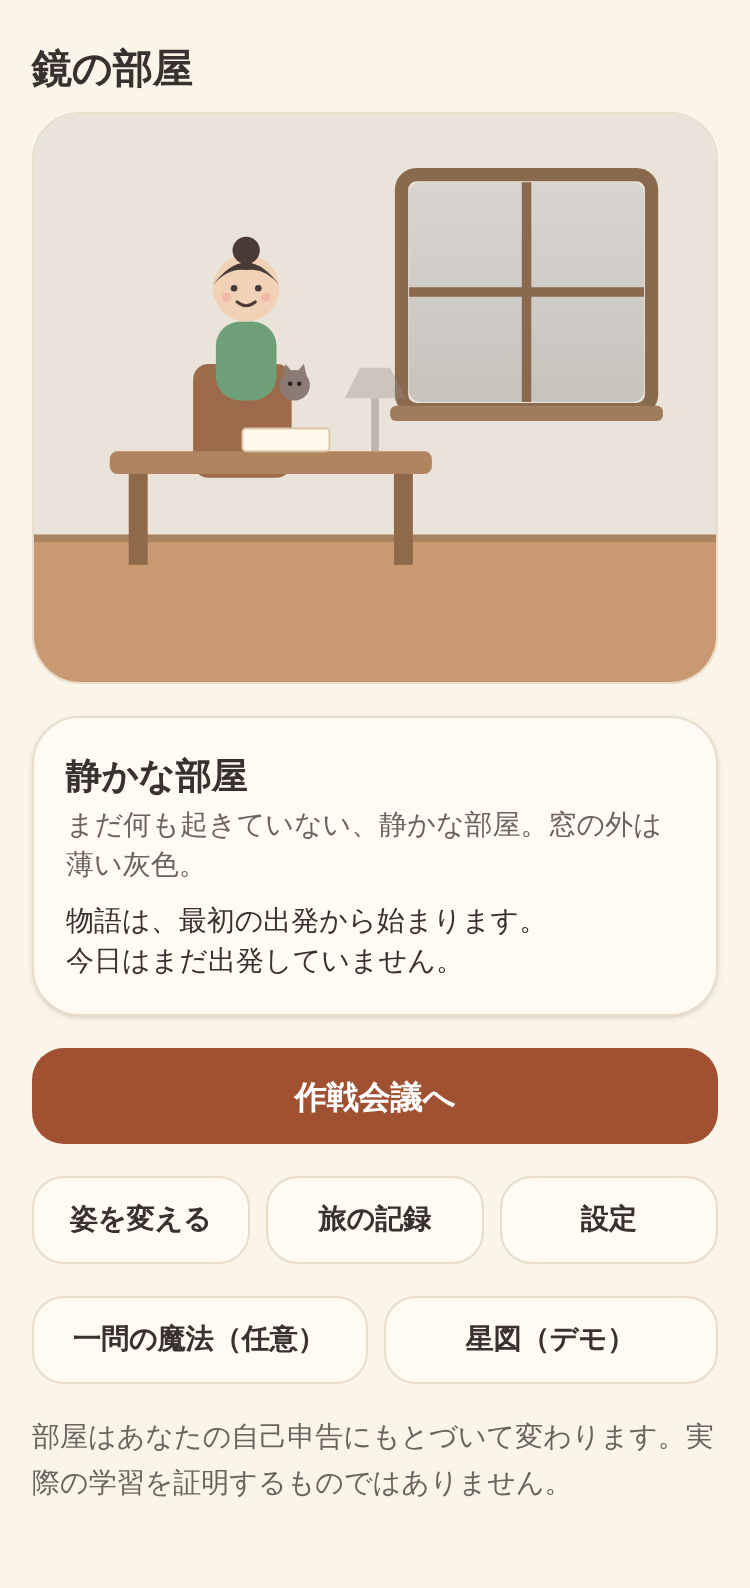
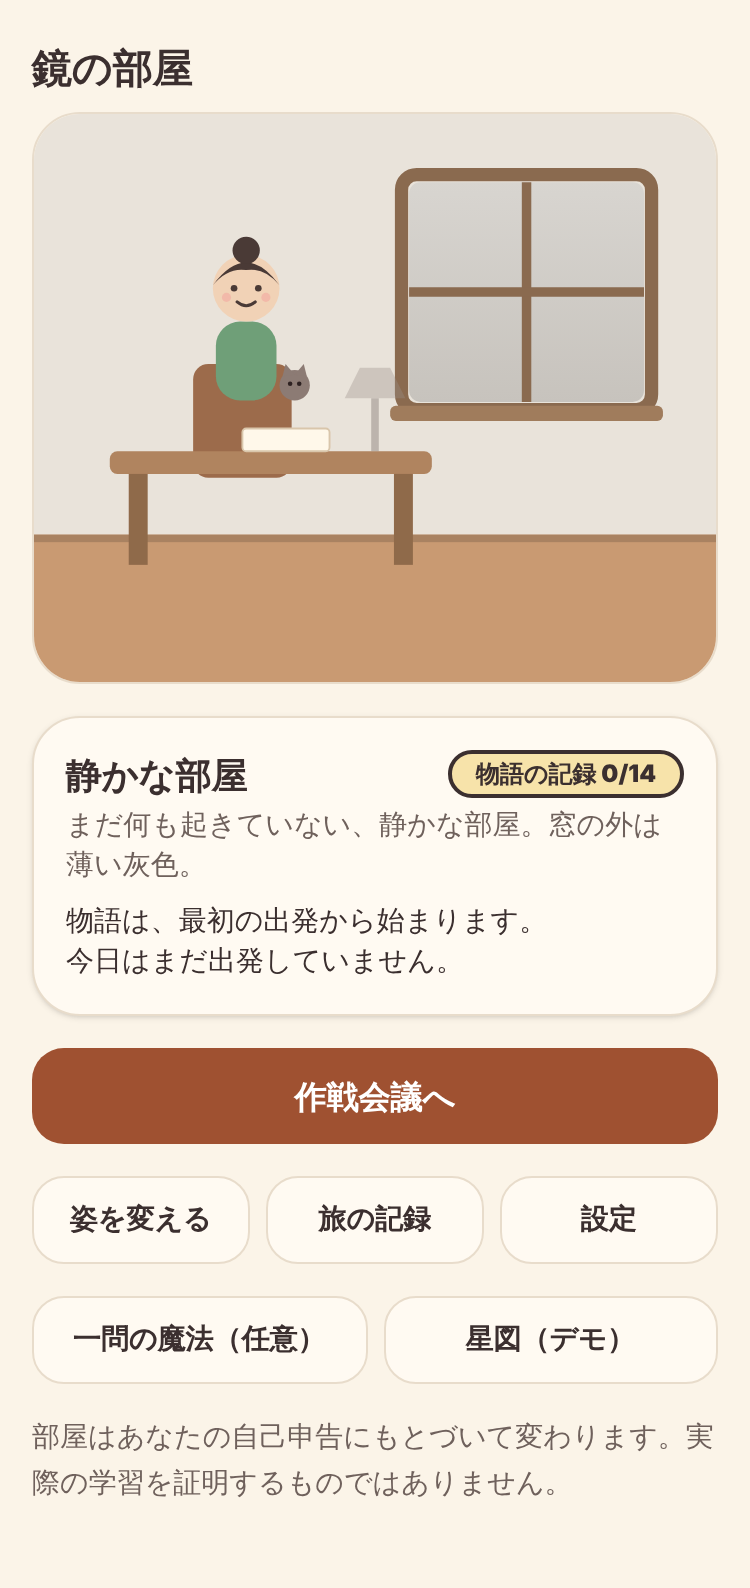
導入画面を AMIX「闇バイト回避シミュレーター」の構成に寄せる、部屋に「物語の記録 n/14」
オーナーの依頼（2026-10-31「これに近づけて」、スクリーンショットで共有）による。
取り入れたのは構成だけで、絵柄・人物・書体はまねていない（設計書 5 章）。
- 導入: 問いかけの吹き出し → 「鏡」を色の箱に入れた大きな題字 → 要点を太字にした本文
  → 端末の時計を映すスマホ画面（部屋と分身で描く）→ 「はじめる」1 タップ＋「遊び方を見る」
  → 安心の一文。下に「遊び方は 3 つだけ」「この作品の約束」「名前をつけてはじめる」
- 部屋: 「物語の記録 n/14」（帰還した日の数。減らない。連続は数えない）
- E2E: 「はじめる」を完全一致に、キーボード操作の検査を新しい並びに合わせた
- 検査: npm run check 57 件・E2E 14 件 成功。375/320/1440px で横はみ出し 0、console エラー 0
- docs/02 の導入の行、docs/08 に 11 章（この会話の追記）

Claude-Session: https://claude.ai/code/session_01TEHZJDHAs9678v4oDnJQFv

Changed region(s): [[0.5827, 0.4628, 0.92, 0.5246]]

diff --git a/src/app/intro/page.tsx b/src/app/intro/page.tsx
@@ -1,9 +1,115 @@
 "use client";
 
-import { useEffect, useState, type FormEvent } from "react";
+import Link from "next/link";
+import { useEffect, useState, useSyncExternalStore, type FormEvent } from "react";
 import { useRouter } from "next/navigation";
 import { useGame } from "@/game/store/GameProvider";
-import { Button, Card, Loading, Note, PageShell } from "@/components/ui";
+import { Loading } from "@/components/ui";
+import { MirrorRoom } from "@/components/MirrorRoom";
+import { AvatarPreview } from "@/components/Avatar";
+import { objectsForGrowth, STAGE_THRESHOLDS } from "@/game/content/roomStages";
+import { STORY_CHAPTERS } from "@/game/content/story";
+import type { AvatarConfig } from "@/game/types";
+
+// 導入（ランディング）。構成の手本: 「一言の問いかけ → 大きな題字 → 手元のスマホ画面 → 1 つの大きな入口 → 安心の一文」。
+// 絵柄・人物・書体は他作品をまねず、受験生の鏡の部屋と分身で描く（設計書 5 章）。
+
+const HERO_AVATAR: AvatarConfig = { hairStyle: 2, outfitColor: 0, companion: 1 };
+const HERO_STAGE = 3;
+const HERO_OBJECTS = [...objectsForGrowth(STAGE_THRESHOLDS[HERO_STAGE]), "subj-math"];
+const WEEKDAYS = ["日", "月", "火", "水", "木", "金", "土"];
+
+function pad(n: number): string {
+  return n < 10 ? `0${n}` : String(n);
+}
+
+// 端末の時計を 1 枚のスマホ画面に出す（20 秒ごとに読み直す）。表示だけで、どこにも送らない。
+function subscribeClock(onChange: () => void): () => void {
+  const id = window.setInterval(onChange, 20_000);
+  return () => window.clearInterval(id);
+}
+function readClock(): string {
+  const d = new Date();
+  return `${pad(d.getHours())}:${pad(d.getMinutes())}|${d.getMonth() + 1}月${d.getDate()}日（${WEEKDAYS[d.getDay()]}）`;
+}
+
+function PhoneScene() {
+  const snapshot = useSyncExternalStore(subscribeClock, readClock, () => "--:--|");
+  const [time, date] = snapshot.split("|");
+  return (
+    <div className="relative mx-auto h-[540px] w-full max-w-[340px]" aria-label="画面のイメージ" role="img">
+      {/* 動きの線 */}
+      <svg aria-hidden="true" viewBox="0 0 60 60" className="absolute left-2 top-16 h-14 w-14">
+        <path d="M8 40 L40 18" stroke="#5b6c8f" strokeWidth="5" strokeLinecap="round" />
+        <path d="M14 54 L48 34" stroke="#5b6c8f" strokeWidth="5" strokeLinecap="round" />
+        <path d="M28 4 L22 22 L32 22 L24 40" stroke="#f2d479" strokeWidth="5" fill="none" strokeLinejoin="round" />
+      </svg>
+
+      {/* スマホ */}
+      <div className="absolute left-1/2 top-2 h-[480px] w-[236px] -translate-x-1/2 rounded-[2.6rem] border-[10px] border-ink bg-gradient-to-b from-[#7fb0c8] to-[#4d5f86] shadow-[8px_8px_0_rgba(59,47,47,0.18)]">
+        <div className="mx-auto mt-2 h-5 w-20 rounded-full bg-ink" />
+        <p className="mt-3 text-center text-5xl font-light tabular-nums tracking-tight text-white" data-testid="hero-clock">
+          {time}
+        </p>
+        <p className="text-center text-xs font-semibold text-white/90">{date}</p>
+        <div className="mx-3 mt-3 overflow-hidden rounded-2xl border-2 border-white/80">
+          <MirrorRoom stage={HERO_STAGE} objects={HERO_OBJECTS} avatar={HERO_AVATAR} season="autumn" idPrefix="hero" label="鏡の部屋（イメージ）" className="rounded-none border-0" />
+        </div>
+        <div className="mx-3 mt-2 space-y-1.5">
+          <div className="rounded-xl bg-white/95 px-3 py-2 shadow-sm">
+            <p className="flex items-center gap-1.5 text-[10px] font-bold text-ink-soft">
+              <span className="inline-block h-3 w-3 rounded-[4px] bg-terracotta" />
+              作戦会議
+            </p>
+            <p className="text-xs font-bold leading-tight">数学を10分 → 現実へ出発</p>
+          </div>
+          <div className="rounded-xl bg-white/95 px-3 py-2 shadow-sm">
+            <p className="flex items-center gap-1.5 text-[10px] font-bold text-ink-soft">
+              <span className="inline-block h-3 w-3 rounded-[4px] bg-sage-deep" />
+              帰還
+            </p>
+            <p className="text-xs font-bold leading-tight">机に、小さな灯りがともった</p>
+          </div>
+        </div>
+      </div>
+
+      {/* 「閉じてOK」の札 */}
+      <div className="absolute right-0 top-10 rotate-6 rounded-2xl border-[3px] border-ink bg-paper px-3 py-2 text-center shadow-[4px_4px_0_var(--ink)]">
+        <svg aria-hidden="true" viewBox="0 0 40 40" className="mx-auto h-8 w-8">
+          <path d="M26 6 a14 14 0 1 0 8 22 a11 11 0 1 1 -8 -22 z" fill="#f2d479" stroke="#3b2f2f" strokeWidth="2.5" />
+        </svg>
+        <p className="text-xs font-black leading-tight">
+          閉じて
+          <br />
+          <span className="text-lg">OK</span>
+        </p>
+      </div>
+
+      {/* 鏡の自分 */}
+      <div className="absolute -bottom-1 left-0">
+        <AvatarPreview avatar={HERO_AVATAR} size={118} label="鏡の自分（イメージ）" />
+      </div>
+    </div>
+  );
+}
+
+function Blobs() {
+  return (
+    <svg aria-hidden="true" className="pointer-events-none absolute inset-0 h-full w-full" preserveAspectRatio="none" viewBox="0 0 400 800">
+      <path d="M0 0 H190 Q150 60 90 70 Q30 80 0 140 Z" fill="#f2d479" />
+      <path d="M400 40 Q330 60 330 140 Q330 230 400 250 Z" fill="#8fb996" />
+      <path d="M0 800 V720 Q90 650 190 700 Q300 760 400 680 V800 Z" fill="#e9a08f" />
+    </svg>
+  );
+}
+
+const STEPS = [
+  { title: "作戦会議", text: "今日の小さな行動をひとつ選ぶ。「数学を10分」でも「教科書を開くだけ」でも「休む」でもいい。" },
+  { title: "現実へ出発", text: "スマホを閉じて、机へ。通知は送りません。途中でやめても、罰はありません。" },
+  { title: "帰還して鏡を見る", text: "「やった」「少しやった」「今日は休んだ」から選ぶと、鏡の自分と部屋、物語が進む。" },
+];
+
+const PROMISES = ["罰も減点もなし", "連続記録も順位もなし", "通知は送らない", "休んでも物語は進む", "記録はこの端末の中だけ", "AI と通信しない"];
 
 export default function IntroPage() {
   const { state, ready, createPlayer, persistent } = useGame();
@@ -17,48 +123,140 @@ export default function IntroPage() {
 
   if (!ready) return <Loading />;
 
+  const start = (name?: string) => {
+    setLeaving(true);
+    createPlayer(name);
+    router.push("/avatar");
+  };
   const onSubmit = (e: FormEvent) => {
     e.preventDefault();
-    setLeaving(true);
-    createPlayer(nickname);
-    router.push("/avatar");
+    start(nickname);
   };
 
   return (
-    <PageShell title="受験生の鏡">
-      <p className="text-2xl font-bold leading-snug">閉じるほど、物語が動き出す。</p>
-      <Card>
-        <h2 className="font-bold">この作品の約束</h2>
-        <ul className="mt-2 list-disc space-y-1 pl-5 text-sm leading-relaxed">
-          <li>ゲームで小さな目標を選び、端末を置いて、現実で行動します。戻ると、鏡の自分と部屋が変わります。</li>
-          <li>行動は自己申告です。「やった」「少しやった」「今日は休んだ」のどれを選んでも、部屋は前に進みます。罰も減点もありません。</li>
-          <li>連続記録や順位はありません。通知も送りません。</li>
-          <li>データはこの端末の中だけに保存され、外部には送りません。端末を変えたりブラウザのデータを消したりすると記録も消えます。</li>
-          <li>学習の提案はルールにもとづく固定の候補です。この版では AI を使っていません。</li>
-        </ul>
-      </Card>
-      <form onSubmit={onSubmit} className="flex flex-col gap-3">
-        <label className="flex flex-col gap-1 text-sm font-semibold">
-          ニックネーム（任意・20 文字まで）
-          <input
-            type="text"
-            name="nickname"
-            value={nickname}
-            onChange={(e) => setNickname(e.target.value)}
-            maxLength={20}
-            autoComplete="off"
-            placeholder="空のままでも始められます"
-            className="min-h-12 rounded-2xl border border-line bg-white px-4 text-base font-normal focus-visible:outline-3 focus-visible:outline-offset-2 focus-visible:outline-dusk"
-          />
-        </label>
-        <Note>本名や学校名は入れないでください。ニックネームはこの端末の中でだけ使われます。</Note>
-        {!persistent ? (
-          <Note role="alert">この端末（またはブラウザの設定）では保存ができないため、閉じると記録が消えます。</Note>
-        ) : null}
-        <Button type="submit" className="w-full">
-          はじめる
-        </Button>
-      </form>
-    </PageShell>
+    <div className="relative min-h-dvh overflow-hidden bg-cream">
+      <section className="relative">
+        <Blobs />
+        <header className="relative z-10 mx-auto flex max-w-5xl items-center justify-between px-4 pt-4">
+          <div>
+            <p className="text-lg font-black leading-none tracking-tight">
+              受験生の<span className="ml-0.5 rounded-md bg-terracotta px-1 text-white">鏡</span>
+            </p>
+            <p className="mt-1 text-[10px] font-semibold tracking-[0.2em] text-ink-soft">閉じるほど、物語が動き出す</p>
+          </div>
+          <Link
+            href="/about"
+            className="rounded-full border-2 border-ink bg-paper px-3 py-1.5 text-xs font-bold focus-visible:outline-3 focus-visible:outline-offset-2 focus-visible:outline-dusk"
+          >
+            保護者の方へ
+          </Link>
+        </header>
+
+        <main className="relative z-10 mx-auto grid max-w-5xl gap-6 px-4 pb-14 pt-6 md:grid-cols-2 md:items-center md:gap-10">
+          <div>
+            <p className="relative inline-block -rotate-1 rounded-2xl border-[3px] border-ink bg-white px-4 py-2 text-sm font-bold shadow-[3px_3px_0_var(--ink)] sm:text-base">
+              「スマホを閉じるだけで、物語が進む」って、ほんと？
+            </p>
+            <h1 className="mt-5 font-black leading-none tracking-tight">
+              <span className="block text-4xl sm:text-5xl">受験生の</span>
+              <span className="mt-2 inline-block -rotate-3 rounded-2xl bg-terracotta px-4 pb-3 pt-2 text-[6.5rem] text-white shadow-[6px_6px_0_var(--ink)] sm:text-[8rem]">
+                鏡
+              </span>
+            </h1>
+            <p className="mt-6 text-[15px] leading-loose">
+              勉強の前に、まずスマホを置く。いちばん難しいのは、たぶんそこです。受験生の鏡は、スマホを閉じているあいだに物語が進むゲーム。小さな行動をひとつ選んで出発し、戻ってきたら、鏡の自分と部屋が少しだけ変わります。
+              <strong className="font-black">休んだ日も、物語は止まりません。</strong>
+            </p>
+            <div className="mt-6 flex flex-wrap items-center gap-3">
+              <button
+                type="button"
+                onClick={() => start()}
+                className="inline-flex min-h-14 items-center gap-2 rounded-full border-[3px] border-ink bg-star px-8 text-lg font-black shadow-[4px_4px_0_var(--ink)] transition-transform active:translate-x-[2px] active:translate-y-[2px] active:shadow-[2px_2px_0_var(--ink)] focus-visible:outline-3 focus-visible:outline-offset-2 focus-visible:outline-dusk"
+              >
+                はじめる
+                <span aria-hidden="true">→</span>
+              </button>
+              <a
+                href="#how"
+                className="inline-flex min-h-14 items-center rounded-full border-[3px] border-ink bg-paper px-6 font-black focus-visible:outline-3 focus-visible:outline-offset-2 focus-visible:outline-dusk"
+              >
+                遊び方を見る
+              </a>
+            </div>
+            <p className="mt-4 inline-block rounded-xl bg-paper/90 px-3 py-1.5 text-xs text-ink-soft">
+              ログインも入力もいりません。記録はこの端末の中だけに保存され、どこにも送信されません。
+            </p>
+          </div>
+          <PhoneScene />
+        </main>
+      </section>
+
+      <section id="how" className="relative z-10 border-y-[3px] border-ink bg-paper px-4 py-10">
+        <div className="mx-auto max-w-5xl">
+          <h2 className="text-2xl font-black">遊び方は、3 つだけ</h2>
+          <ol className="mt-5 grid gap-3 md:grid-cols-3">
+            {STEPS.map((s, i) => (
+              <li key={s.title} className="rounded-3xl border-[3px] border-ink bg-white p-4 shadow-[4px_4px_0_var(--ink)]">
+                <p className="flex items-center gap-2 text-lg font-black">
+                  <span className="inline-flex h-9 w-9 items-center justify-center rounded-full border-[3px] border-ink bg-star text-base">{i + 1}</span>
+                  {s.title}
+                </p>
+                <p className="mt-2 text-sm leading-relaxed">{s.text}</p>
+              </li>
+            ))}
+          </ol>
+          <p className="mt-5 inline-block rounded-full border-2 border-ink bg-sage/40 px-4 py-1 text-sm font-bold">
+            物語は全 {STORY_CHAPTERS.length} 章。そのあとも、日々は続きます。
+          </p>
+        </div>
+      </section>
+
+      <section className="relative z-10 px-4 py-10">
+        <div className="mx-auto max-w-5xl">
+          <h2 className="text-2xl font-black">この作品の約束</h2>
+          <ul className="mt-4 flex flex-wrap gap-2">
+            {PROMISES.map((p) => (
+              <li key={p} className="rounded-full border-2 border-ink bg-white px-3 py-1.5 text-sm font-bold">
+                {p}
+              </li>
+            ))}
+          </ul>
+          <p className="mt-4 text-sm leading-relaxed text-ink-soft">
+            行動は自己申告です。部屋の変化は学習の証明ではありません。物語と問題は下書きの段階です。端末を変えたりブラウザのデータを消したりすると、記録も消えます。
+          </p>
+        </div>
+      </section>
+
+      <section id="start" className="relative z-10 px-4 pb-16">
+        <form onSubmit={onSubmit} className="mx-auto flex max-w-md flex-col gap-3 rounded-3xl border-[3px] border-ink bg-paper p-5 shadow-[4px_4px_0_var(--ink)]">
+          <h2 className="text-xl font-black">名前をつけてはじめる</h2>
+          <label className="flex flex-col gap-1 text-sm font-semibold">
+            ニックネーム（任意・20 文字まで）
+            <input
+              type="text"
+              name="nickname"
+              value={nickname}
+              onChange={(e) => setNickname(e.target.value)}
+              maxLength={20}
+              autoComplete="off"
+              placeholder="空のままでも始められます"
+              className="min-h-12 rounded-2xl border-2 border-ink bg-white px-4 text-base font-normal focus-visible:outline-3 focus-visible:outline-offset-2 focus-visible:outline-dusk"
+            />
+          </label>
+          <p className="text-xs text-ink-soft">本名や学校名は入れないでください。ニックネームはこの端末の中でだけ使われます。</p>
+          {!persistent ? (
+            <p role="alert" className="text-xs text-terracotta-deep">
+              この端末（またはブラウザの設定）では保存ができないため、閉じると記録が消えます。
+            </p>
+          ) : null}
+          <button
+            type="submit"
+            className="min-h-12 rounded-full border-[3px] border-ink bg-star font-black shadow-[3px_3px_0_var(--ink)] focus-visible:outline-3 focus-visible:outline-offset-2 focus-visible:outline-dusk"
+          >
+            この名前ではじめる
+          </button>
+        </form>
+      </section>
+    </div>
   );
 }

diff --git a/src/app/room/page.tsx b/src/app/room/page.tsx
@@ -28,6 +28,8 @@ export default function RoomPage() {
   const inEpilogue = world.activeDays.length > STORY_CHAPTERS.length;
   const chapterLabel = inEpilogue ? `第${world.chapter}章のあと「${EPILOGUE_THEME}」` : `第${world.chapter}章「${chapter.theme}」`;
   const who = player.nickname ? `${player.nickname}の` : "";
+  // 物語の記録: 帰還した日の数（減らない。連続かどうかは数えない）
+  const storyRead = Math.min(world.activeDays.length, STORY_CHAPTERS.length);
 
   return (
     <PageShell title={`${who}鏡の部屋`}>
@@ -36,9 +38,17 @@ export default function RoomPage() {
         <MirrorRoom stage={world.roomStage} objects={world.unlockedObjects} avatar={player.avatar} season={season} />
       </div>
       <Card>
-        <p className="text-lg font-bold" data-testid="room-stage">
-          {stage.name}
-        </p>
+        <div className="flex items-start justify-between gap-2">
+          <p className="text-lg font-bold" data-testid="room-stage">
+            {stage.name}
+          </p>
+          <p
+            className="shrink-0 rounded-full border-2 border-ink bg-star/60 px-3 py-0.5 text-xs font-black"
+            data-testid="story-progress"
+          >
+            物語の記録 {storyRead}/{STORY_CHAPTERS.length}
+          </p>
+        </div>
         <p className="text-sm text-ink-soft">{stage.description}</p>
         <p className="mt-2 text-sm">
           {hasStarted ? chapterLabel : "物語は、最初の出発から始まります。"}

diff --git a/docs/08-handoff.md b/docs/08-handoff.md
@@ -124,3 +124,14 @@ docs/               00 監査と R1〜R12、01 計画、02 画面、03 データ
 1. 製品を研ぎ澄ます続き: 自分だけの部屋（教科の物は 7 種ある。選んだ行動の「ひとこと」や季節で部屋が変わる案）、共有画像（今は前後の部屋 2 枚＋1 行。物語の題名を入れる案）、物語 1〜14 章の人手監修。
 2. オーナーが試し URL をスマホで触り、直したい点を列挙する。
 3. 9 章の 3（教室の星図の本番）と 4（CI のぐらつき）は変わらず。
+
+## 11. クラウドの会話の追記（2026-10-31・会話 session_01TEHZJDHAs9678v4oDnJQFv）
+
+やったこと（確認済み＝事実）:
+
+1. **AGENTS.md に AI の協力者向けの案内**（オーナー「Codex にも協力してほしい。彼にも見せたい」）。Codex はリポジトリ直下の AGENTS.md を最初に読む。Next.js の自動生成ブロックの下に、最初に読むもの・並行作業の約束（main に直接 push しない、枝と PR、ここへの追記）・オーナーの決定・コマンド・質問の約束を書いた。コミット efb05b7。
+2. **導入画面を AMIX の「闇バイト回避シミュレーター」（https://amix-design.com/tl/web-darkb/ 。オーナーがスクリーンショットで共有）の構成に寄せた**（オーナー「これに近づけて」）。取り入れたのは構成だけ＝一言の問いかけの吹き出し → 1 文字を色の箱に入れた大きな題字 → 本文の要点を太字 → 手元のスマホ画面（端末の時計を表示）→ 大きな入口 1 つ＋副ボタン → 安心の一文、太い線と固い影のボタン、色面の背景。絵柄・人物・書体はまねず、部屋と分身で描いた（設計書 5 章）。下に「遊び方は 3 つだけ」「この作品の約束」「名前をつけてはじめる」。「はじめる」1 タップで分身へ進む（名前は任意のまま）。
+3. **部屋に「物語の記録 n/14」**（帰還した日の数。減らない。連続は数えない）。
+4. 検査: `npm run check` 57 件・E2E 14 件 成功（クラウド）。E2E は「はじめる」を完全一致に、キーボード操作の検査を新しい並びに合わせた。375px・320px・1440px で横はみ出し 0、console エラー 0。スクリーンショット `docs/screenshots/00-intro-mobile.png` ほか。
+
+確かめていないこと: 実機での見え方、太字の書体（端末の書体に依存。外部フォントは使わない約束）。公開 URL は「準備中」のままなので、オーナーはまだこの画面を触れない。

diff --git a/docs/02-screen-flow.md b/docs/02-screen-flow.md
@@ -4,7 +4,7 @@
 
 ```
 /            起動判定（プレイヤーなし→/intro、出発中→/journey、それ以外→/room）
-/intro       導入: 作品の約束、任意のニックネーム → /avatar
+/intro       導入（ランディング）: 問いかけ → 題字 → スマホ画面のイメージ → 「はじめる」1 タップ → /avatar。下に遊び方 3 つ・約束・名前をつけてはじめる
 /avatar      分身のカスタマイズ（髪型・服の色・相棒）→ /room
 /room        鏡の部屋: 分身・世界・本日の状態。初回は「未来の部屋のプレビュー」を重ねて表示
              ├→ /plan     作戦会議: 3 案から選ぶ / 自分で決める → 出発
